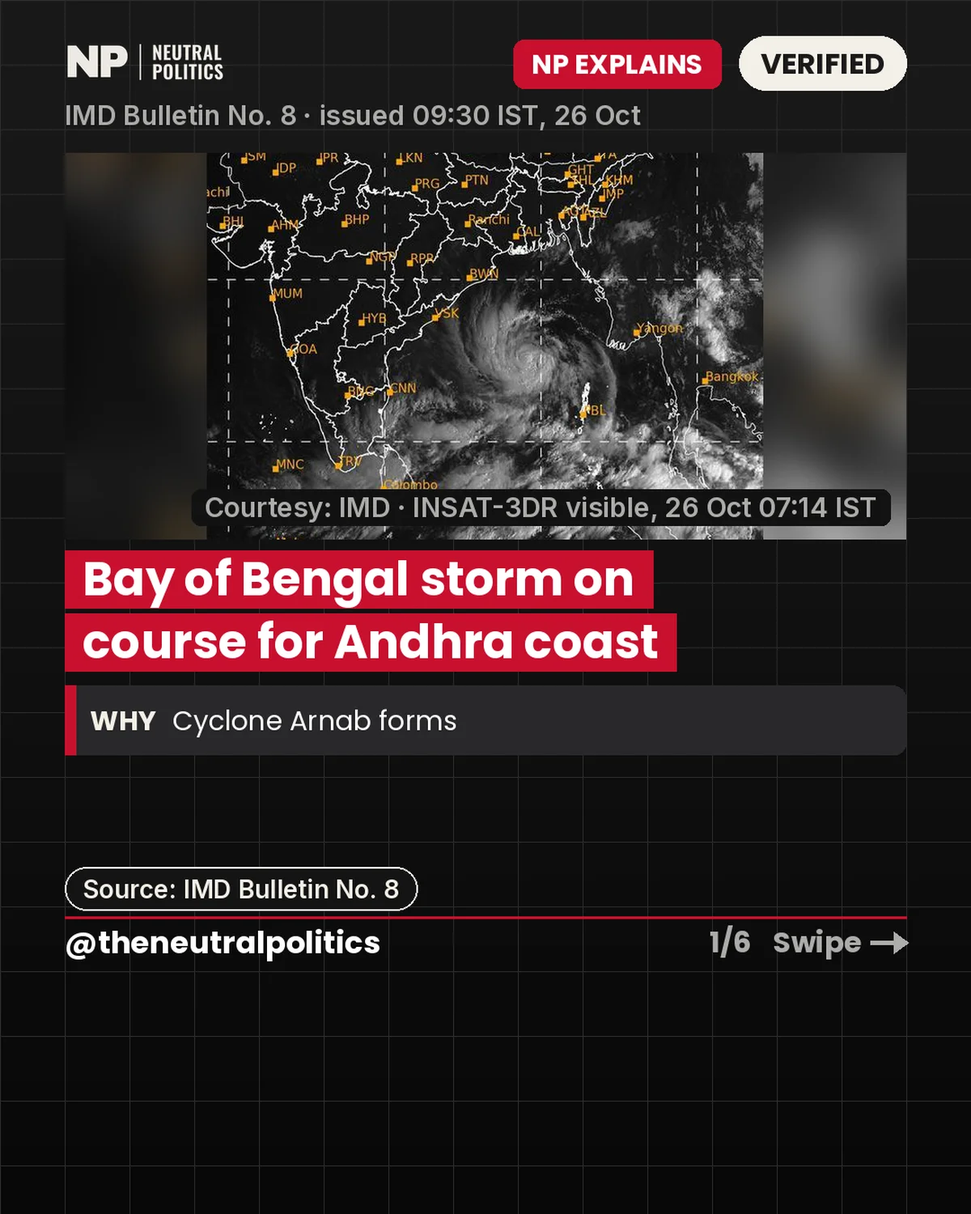
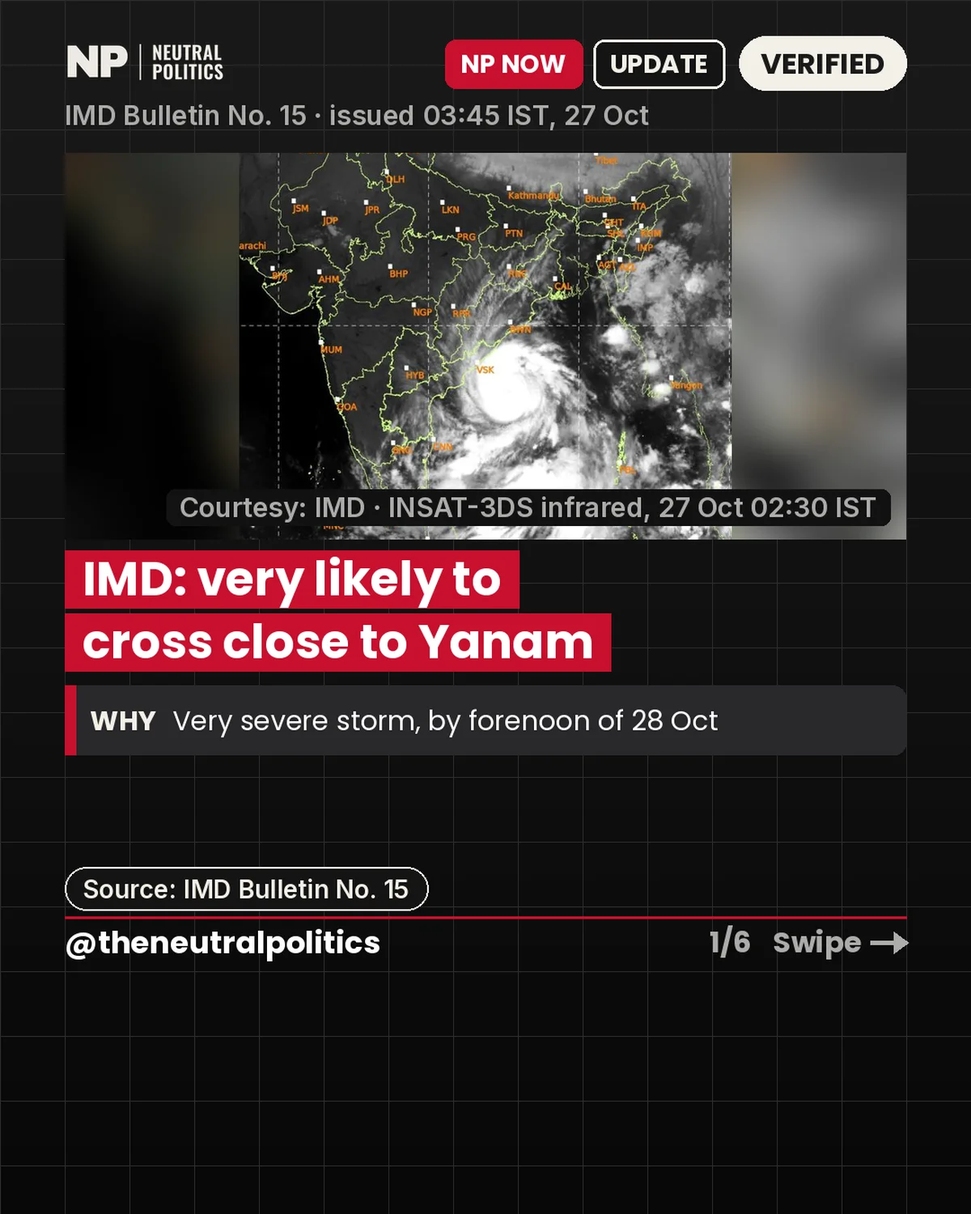
Update the Bay note: Cyclone Arnab is now very severe.
Bulletin No. 15 stays on the same URL, with the new poster and carousel. The crossing near Yanam remains a forecast.

Changed region(s): [[0.0925, 0.0307, 0.9558, 0.552], [0.185, 0.5827, 0.74, 0.6133], [0.4008, 0.7053, 0.4317, 0.7667]]

diff --git a/content/news/2026/10/imd-depression-bay-of-bengal-very-severe-cyclone-andhra-oct-28.hi.md b/content/news/2026/10/imd-depression-bay-of-bengal-very-severe-cyclone-andhra-oct-28.hi.md
@@ -1,11 +1,17 @@
 ---
-title: "चक्रवात अर्नब बना; आंध्र का पूर्वानुमान"
-standfirst: "बुलेटिन नंबर 8 के अनुसार गहरा अवदाब 26 अक्टूबर को 05:30 IST पर चक्रवात अर्नब बना, और 28 अक्टूबर के पूर्वाह्न तक आंध्र तट पार करने का पूर्वानुमान है।"
+title: "अर्नब अब बहुत गंभीर; यनम, 28 अक्टूबर"
+standfirst: "बुलेटिन नंबर 15 के अनुसार चक्रवात अर्नब अब बहुत गंभीर चक्रवाती तूफान है, और 28 अक्टूबर के पूर्वाह्न तक यनम के पास तट पार करने की बहुत संभावना है।"
 key_facts:
-  - "अपडेट, 26 अक्टूबर 2026, दोपहर 12:32 बजे IST। मौसम विभाग का राष्ट्रीय बुलेटिन नंबर 8 (BOB/08/2026), 26 अक्टूबर को 09:30 IST जारी, और उसी सुबह 08:47 IST का अखिल भारतीय बुलेटिन। अगला बुलेटिन आंकड़े बदल सकता है। IMD, APSDMA और OSDMA के अलर्ट मानें।"
+  - "अपडेट, 27 अक्टूबर 2026, सुबह 8:50 बजे IST। NP NOW। मुहर: सत्यापित, अपडेट। मौसम विभाग का राष्ट्रीय बुलेटिन नंबर 15 (BOB/08/2026), 27 अक्टूबर को 03:45 IST जारी, स्थिति 02:30 IST की। IMD के बुलेटिन आंकड़े अक्सर बदलते हैं। IMD, APSDMA और OSDMA के अलर्ट मानें।"
+  - "चक्रवात अर्नब अब बहुत गंभीर चक्रवाती तूफान है। 27 अक्टूबर को 02:30 IST पर यह पश्चिम-मध्य बंगाल की खाड़ी में 15.9° उत्तर, 85.4° पूर्व के पास था: विशाखापट्टनम से करीब 300 किमी दक्षिण-पूर्व और काकीनाडा से 360 किमी पूर्व-दक्षिण-पूर्व। पिछले छह घंटे में यह 25 किमी प्रति घंटा की रफ्तार से पश्चिम-उत्तर-पश्चिम बढ़ा। IMD की RSMC उष्णकटिबंधीय चक्रवात सलाह संख्या 7 कहती है कि 26 अक्टूबर को 1800 UTC, यानी 23:30 IST, तक यह बहुत गंभीर चक्रवाती तूफान बन चुका था।"
+  - "मौसम विभाग का पूर्वानुमान: आंध्र प्रदेश और यनम के तटों को बापटला और विशाखापट्टनम के बीच, यनम के पास, बहुत गंभीर चक्रवाती तूफान के रूप में 28 अक्टूबर के पूर्वाह्न तक पार करने की बहुत संभावना। उस समय हवा 115-125 किमी प्रति घंटा, झोंके 140 तक। 27 अक्टूबर की शाम तक पश्चिम-उत्तर-पश्चिम, फिर उत्तर-पश्चिम बढ़ने की संभावना। यह पार करना पूर्वानुमान है। यह नोट नहीं कहता कि तट पार हो चुका है।"
+  - "02:30 IST पर समुद्र में हवा 125-135 किमी प्रति घंटा थी, झोंके 150 तक। IMD कहता है कि 27 अक्टूबर की दोपहर तक यह 135-145 किमी प्रति घंटा, झोंके 160 तक, बढ़ सकती है। IMD के शब्दों में लैंडफॉल के समय काकीनाडा और यनम के पास 1.0-1.5 मीटर की तूफानी लहर संभव है। वह पंक्ति पूर्वानुमान है। मछुआरों को 27, 28 और 29 अक्टूबर को समुद्र में न जाने की सलाह है।"
+  - "आंध्र के मुख्यमंत्री एन. चंद्रबाबू नायडू ने तटीय और निचले इलाकों से लोगों को निकालने का आदेश दिया है, द हिंदू की रिपोर्ट। 27 अक्टूबर के लिए द हिंदू सात जिलों में रेड अलर्ट की रिपोर्ट करता है। कैप्शन और टाइम्स ऑफ इंडिया काकीनाडा, कोनासीमा, पूर्वी गोदावरी, पश्चिमी गोदावरी, एलुरु और यनम का नाम उन जगहों में लेते हैं। कैप्शन में आंध्र प्रदेश के सहायता नंबर 112 और 1070 हैं। इस नोट में निकाले गए लोगों की कोई गिनती नहीं है, और न नुकसान की खबर है, न मौत की।"
+  - "ट्रैक के साथ छपी IMD की श्रेणियाँ, नॉट को किमी प्रति घंटा में बदलकर: चक्रवाती तूफान 62-88, गंभीर चक्रवाती तूफान 89-117, और बहुत गंभीर चक्रवाती तूफान 118-166 किमी प्रति घंटा। रेड अलर्ट का अर्थ है \"take action\", यानी कार्रवाई करें।"
+  - "पहले का अपडेट, 26 अक्टूबर 2026, दोपहर 12:32 बजे IST। मौसम विभाग का राष्ट्रीय बुलेटिन नंबर 8 (BOB/08/2026), 26 अक्टूबर को 09:30 IST जारी, और उसी सुबह 08:47 IST का अखिल भारतीय बुलेटिन। वे पंक्तियाँ नीचे रखी हैं। वे नवीनतम पंक्ति नहीं हैं।"
   - "गहरा अवदाब 26 अक्टूबर को 05:30 IST पर चक्रवाती तूफान अर्नब बना। कैप्शन उच्चारण 'Ornab' बताता है। 05:30 IST पर यह 15.4° उत्तर, 88.9° पूर्व के पास था: विशाखापट्टनम से करीब 650 किमी पूर्व-दक्षिण-पूर्व, काकीनाडा से 730 किमी पूर्व-दक्षिण-पूर्व, और बापटला से 910 किमी पूर्व।"
-  - "मौसम विभाग का पूर्वानुमान: 26 अक्टूबर की आधी रात तक गंभीर चक्रवाती तूफान, 27 अक्टूबर को बहुत गंभीर चक्रवाती तूफान, और आंध्र प्रदेश तथा यनम के तटों को बापटला और विशाखापट्टनम के बीच 28 अक्टूबर के पूर्वाह्न तक पार करने की बहुत संभावना। हवा 115-125 किमी प्रति घंटा, झोंके 140 तक। यह पार करना पूर्वानुमान है। बदल सकता है। इस नोट में इससे बारीक लैंडफॉल समय नहीं है।"
-  - "आंध्र प्रदेश और दक्षिण ओडिशा के तटों के लिए चक्रवात चेतावनी, रेड संदेश। मछुआरों को समुद्र में न जाने की सलाह। आंध्र के मुख्यमंत्री एन. चंद्रबाबू नायडू ने चौबीसों घंटे चौकसी का आदेश दिया, द हिंदू की रिपोर्ट। ओडिशा के मुख्यमंत्री मोहन चरण माझी ने आठ मंत्रियों को संवेदनशील जिलों में भेजा, द हिंदू और पीटीआई की रिपोर्ट।"
+  - "पहले, बुलेटिन नंबर 8 का पूर्वानुमान था: 26 अक्टूबर की आधी रात तक गंभीर चक्रवाती तूफान, 27 अक्टूबर को बहुत गंभीर चक्रवाती तूफान, और आंध्र प्रदेश तथा यनम के तटों को बापटला और विशाखापट्टनम के बीच 28 अक्टूबर के पूर्वाह्न तक पार करना। हवा 115-125 किमी प्रति घंटा, झोंके 140 तक। वह उस बुलेटिन का पूर्वानुमान था।"
+  - "पहले, 26 अक्टूबर को: आंध्र प्रदेश और दक्षिण ओडिशा के तटों के लिए चक्रवात चेतावनी, रेड संदेश। मछुआरों को समुद्र में न जाने की सलाह दी गई थी। आंध्र के मुख्यमंत्री एन. चंद्रबाबू नायडू ने चौबीसों घंटे चौकसी का आदेश दिया था, द हिंदू की रिपोर्ट। ओडिशा के मुख्यमंत्री मोहन चरण माझी ने आठ मंत्रियों को संवेदनशील जिलों में भेजा था, द हिंदू और पीटीआई की रिपोर्ट।"
   - "पृष्ठभूमि, 25 अक्टूबर। NP EXPLAINS। मुहर: सत्यापित। पहला कैरोसेल 25 अक्टूबर 2026 को सुबह 8:58 बजे IST पोस्ट हुआ। तब कवर NP का ग्राफ़िक था। आँकड़े भारतीय मौसम विभाग के थे।"
   - "भारतीय मौसम विभाग का राष्ट्रीय बुलेटिन नंबर 2 (BOB/08/2026), 25 अक्टूबर को 02:00 IST जारी, 24 अक्टूबर को 23:30 IST के अवलोकन से। पूर्वानुमान बदल सकते हैं।"
   - "बंगाल की खाड़ी का निम्न दबाव क्षेत्र 24 अक्टूबर को 17:30 IST पर अवदाब बना, पूर्व-मध्य और उससे लगी दक्षिण-पूर्व खाड़ी के ऊपर। उस 25 अक्टूबर के बुलेटिन तक यह अवदाब था, चक्रवात नहीं बना था, और बुलेटिन में तूफान का नाम नहीं था।"
@@ -15,33 +21,54 @@ key_facts:
   - "मौसम विभाग की सलाह: मछुआरे 26-28 अक्टूबर को पश्चिम-मध्य खाड़ी में न जाएँ, और 27-28 अक्टूबर को आंध्र प्रदेश-ओडिशा के तटों पर और तट से दूर न जाएँ। कैप्शन IMD, APSDMA और OSDMA के आधिकारिक अलर्ट मानने को कहता है।"
   - "यह 24 अक्टूबर के सुबह 8:38 वाले पैकेज का अपडेट है, जिसमें केवल उत्तर आंध्र और दक्षिण ओडिशा के पास चक्रवाती तूफान का पूर्वानुमान था। 25 अक्टूबर को करीब सुबह 9:00 बजे IST की जाँच में नया बुलेटिन नहीं मिला। नवीनतम TWO सूची 25 अक्टूबर, 02:20 IST की थी।"
 sides:
-  - label: "बुलेटिन नंबर 8 क्या कहता है"
-    text: "26 अक्टूबर को 05:30 IST पर गहरा अवदाब चक्रवात अर्नब बना, 15.4° उत्तर, 88.9° पूर्व के पास। पूर्वानुमान है: आधी रात तक गंभीर चक्रवाती तूफान, 27 अक्टूबर को बहुत गंभीर चक्रवाती तूफान, और 28 अक्टूबर के पूर्वाह्न तक बापटला और विशाखापट्टनम के बीच तट पार करना।"
+  - label: "बुलेटिन नंबर 15 क्या कहता है"
+    text: "27 अक्टूबर को 02:30 IST पर चक्रवात अर्नब बहुत गंभीर चक्रवाती तूफान था, 15.9° उत्तर, 85.4° पूर्व के पास। IMD कहता है कि 28 अक्टूबर के पूर्वाह्न तक बापटला और विशाखापट्टनम के बीच, यनम के पास, तट पार करने की बहुत संभावना है।"
   - label: "जो अभी पूर्वानुमान है"
-    text: "गंभीर और बहुत गंभीर चरण, तट पार करना, और 115-125 किमी प्रति घंटा की हवा जिसमें झोंके 140 तक हों, मौसम विभाग का पूर्वानुमान है। अगला बुलेटिन आंकड़े बदल सकता है। लैंडफॉल की पंक्ति 28 अक्टूबर के पूर्वाह्न से बारीक नहीं है।"
-  - label: "25 अक्टूबर को बुलेटिन नंबर 2 क्या कहता था"
-    text: "25 अक्टूबर को यह अवदाब था, और उस बुलेटिन ने नाम नहीं दिया था। वे अनुच्छेद नीचे पृष्ठभूमि के रूप में रखे हैं। वे नवीनतम पंक्ति नहीं हैं।"
+    text: "तट पार करना, उस समय 115-125 किमी प्रति घंटा की हवा जिसमें झोंके 140 तक हों, 27 अक्टूबर की दोपहर तक समुद्री हवा का 135-145 किमी प्रति घंटा तक बढ़ना, और 1.0-1.5 मीटर की तूफानी लहर, IMD का पूर्वानुमान है। अगला बुलेटिन आंकड़े बदल सकता है। यह नोट नहीं कहता कि तट पार हो चुका है।"
+  - label: "पहले के बुलेटिन क्या कहते थे"
+    text: "26 अक्टूबर के बुलेटिन नंबर 8 ने कहा था कि गहरा अवदाब चक्रवात अर्नब बन चुका है। 25 अक्टूबर के बुलेटिन नंबर 2 ने इसे अवदाब बताया था और नाम नहीं दिया था। वे अनुच्छेद नीचे हैं। वे नवीनतम पंक्ति नहीं हैं।"
 not_confirmed:
   - "कोई नुकसान, या कोई मौत। यह अपडेट इनमें से कोई खबर नहीं करता।"
-  - "कोई एक शहर, या 28 अक्टूबर के पूर्वाह्न से बारीक कोई घड़ी का समय। मौसम विभाग की पंक्ति बापटला और विशाखापट्टनम के बीच है, और पूर्वानुमान बदल सकता है।"
-  - "यह कि गंभीर चरण, या बहुत गंभीर चरण, हो चुका है। बुलेटिन नंबर 8 में वे पूर्वानुमान हैं।"
-  - "बुलेटिन नंबर 8 के बाद का कोई आंकड़ा। 26 अक्टूबर को करीब सुबह 10:52 बजे IST की जाँच में नंबर 8 नवीनतम सूचीबद्ध था।"
+  - "यह कि तट पार हो चुका है। IMD की पंक्ति पूर्वानुमान है: बापटला और विशाखापट्टनम के बीच, यनम के पास, 28 अक्टूबर के पूर्वाह्न तक पार करने की बहुत संभावना। पूर्वानुमान बदल सकता है।"
+  - "तटीय और निचले इलाकों से निकाले गए लोगों की कोई गिनती। द हिंदू मुख्यमंत्री के आदेश की रिपोर्ट करता है। यह नोट कोई संख्या नहीं जोड़ता।"
+  - "यह कि समुद्री हवा 135-145 किमी प्रति घंटा, झोंके 160 तक, पहुँच चुकी है। 27 अक्टूबर की दोपहर तक की यह बढ़त IMD का पूर्वानुमान है। 02:30 IST का अवलोकन 125-135 किमी प्रति घंटा है, झोंके 150 तक।"
+  - "बुलेटिन नंबर 15 के बाद का कोई आंकड़ा। 27 अक्टूबर को करीब सुबह 8:45 बजे IST की जाँच में नंबर 15 नवीनतम सूचीबद्ध था। बुलेटिन कहता था कि अगला संदेश 08:30 IST का होगा, और उस जाँच में नंबर 16 साइट पर नहीं मिला।"
 translation:
   engine: "cloud-agent"
   status: "machine"
 ---
 
+## अपडेट, 27 अक्टूबर
+
+यह पेज 27 अक्टूबर 2026 को सुबह 8:50 बजे IST अपडेट हुआ, जब नया कैरोसेल पोस्ट हुआ। इस कैरोसेल की श्रृंखला NP NOW है। मुहर VERIFIED है, और यह अपडेट लिखा है। मौसम विभाग के राष्ट्रीय बुलेटिन नंबर 15, संख्या BOB/08/2026, जो 27 अक्टूबर को 03:45 IST जारी हुआ, और जिसमें 02:30 IST की स्थिति है, के अनुसार चक्रवात अर्नब अब बहुत गंभीर चक्रवाती तूफान है। IMD के बुलेटिन आंकड़े अक्सर बदलते हैं। अगला बुलेटिन उन्हें बदल सकता है। IMD, आंध्र प्रदेश राज्य आपदा प्रबंधन प्राधिकरण (APSDMA) और ओडिशा राज्य आपदा प्रबंधन प्राधिकरण (OSDMA) के अलर्ट मानें।
+
+27 अक्टूबर को 02:30 IST पर तूफान पश्चिम-मध्य बंगाल की खाड़ी में था, 15.9° उत्तर, 85.4° पूर्व के पास। यह विशाखापट्टनम से करीब 300 किमी दक्षिण-पूर्व और काकीनाडा से करीब 360 किमी पूर्व-दक्षिण-पूर्व है। पिछले छह घंटे में यह 25 किमी प्रति घंटा की रफ्तार से पश्चिम-उत्तर-पश्चिम बढ़ा। IMD की RSMC उष्णकटिबंधीय चक्रवात सलाह संख्या 7 कहती है कि यह प्रणाली 26 अक्टूबर को 1800 UTC, यानी 23:30 IST, तक बहुत गंभीर चक्रवाती तूफान बन चुकी थी। 27 अक्टूबर को करीब सुबह 8:45 बजे IST की जाँच में बुलेटिन नंबर 15 नवीनतम सूचीबद्ध मिला। बुलेटिन खुद कहता था कि अगला संदेश 08:30 IST का होगा। उस जाँच में बुलेटिन नंबर 16 साइट पर नहीं मिला।
+
+बुलेटिन नंबर 15 से मौसम विभाग का पूर्वानुमान है कि तूफान 27 अक्टूबर की शाम तक पश्चिम-उत्तर-पश्चिम बढ़े, और फिर उत्तर-पश्चिम। आंध्र प्रदेश और यनम के तटों को बापटला और विशाखापट्टनम के बीच, यनम के पास, बहुत गंभीर चक्रवाती तूफान के रूप में 28 अक्टूबर के पूर्वाह्न तक पार करने की बहुत संभावना है। उस पार करने पर हवा 115-125 किमी प्रति घंटा है, झोंके 140 किमी प्रति घंटा तक। यह पार करना पूर्वानुमान है। यह नोट नहीं कहता कि तट पार हो चुका है, और उस पूर्वाह्न के अंदर कोई घड़ी का समय नहीं लगाता।
+
+02:30 IST पर समुद्र में बुलेटिन हवा 125-135 किमी प्रति घंटा बताता है, झोंके 150 किमी प्रति घंटा तक। IMD कहता है कि 27 अक्टूबर की दोपहर तक ये हवाएँ 135-145 किमी प्रति घंटा, झोंके 160 किमी प्रति घंटा तक, बढ़ सकती हैं। यह बढ़त पूर्वानुमान है। IMD यह भी कहता है कि लैंडफॉल के समय काकीनाडा और यनम के पास 1.0 से 1.5 मीटर की तूफानी लहर संभव है। तूफानी लहर वाली यह पंक्ति लैंडफॉल के समय के लिए IMD के शब्द हैं, और यह पूर्वानुमान है। मछुआरों को 27, 28 और 29 अक्टूबर को समुद्र में न जाने की सलाह है।
+
+आंध्र के मुख्यमंत्री एन. चंद्रबाबू नायडू ने आदेश दिया है कि तटीय और निचले इलाकों से लोगों को निकाला जाए। उस आदेश के लिए नामित रिपोर्ट द हिंदू है। 27 अक्टूबर के लिए द हिंदू सात जिलों में रेड अलर्ट की रिपोर्ट करता है। कैप्शन, और टाइम्स ऑफ इंडिया, उस अलर्ट वाली जगहों में काकीनाडा, कोनासीमा, पूर्वी गोदावरी, पश्चिमी गोदावरी, एलुरु और यनम का नाम लेते हैं। कैप्शन आंध्र प्रदेश के सहायता नंबर 112 और 1070 देता है। सहायता नंबरों के लिए भी द हिंदू नामित है। यह अपडेट निकाले गए लोगों की गिनती नहीं देता। यह नुकसान या मौत की खबर नहीं करता।
+
+ट्रैक के साथ छपी IMD की श्रेणियाँ, जिनमें नॉट को किमी प्रति घंटा में बदला गया है, ये हैं। चक्रवाती तूफान 62-88 किमी प्रति घंटा। गंभीर चक्रवाती तूफान 89-117 किमी प्रति घंटा। बहुत गंभीर चक्रवाती तूफान 118-166 किमी प्रति घंटा। कैप्शन कहता है कि रेड अलर्ट का अर्थ है \"take action\", यानी कार्रवाई करें।
+
+नया कवर NP का ग्राफ़िक है, जिसमें मौसम विभाग की तस्वीरें हैं: 27 अक्टूबर को 02:30 से 02:57 IST की INSAT-3DS तापीय अवरक्त छवि, और अनिश्चितता के शंकु के साथ देखा गया तथा पूर्वानुमानित पथ, जिसका आधार 26 अक्टूबर का 1800 UTC है, यानी 23:30 IST। साभार: IMD।
+
+इकट्ठा पढ़ें तो जो पंक्तियाँ बुलेटिन नंबर 15 के अंदर रहती हैं, वे ये हैं। अर्नब अब बहुत गंभीर चक्रवाती तूफान है। 27 अक्टूबर को 02:30 IST पर यह 15.9° उत्तर, 85.4° पूर्व के पास था, विशाखापट्टनम से करीब 300 किमी दक्षिण-पूर्व और काकीनाडा से 360 किमी पूर्व-दक्षिण-पूर्व, और इससे पहले छह घंटे में 25 किमी प्रति घंटा की रफ्तार से पश्चिम-उत्तर-पश्चिम बढ़ा था। पूर्वानुमान का पार करना आंध्र प्रदेश और यनम के तट हैं, बापटला और विशाखापट्टनम के बीच, यनम के पास, बहुत गंभीर चक्रवाती तूफान के रूप में, 28 अक्टूबर के पूर्वाह्न तक, हवा 115-125 किमी प्रति घंटा और झोंके 140 तक। 02:30 IST पर समुद्री हवा 125-135 किमी प्रति घंटा थी, झोंके 150 तक, और IMD कहता है कि दोपहर तक यह 135-145 किमी प्रति घंटा, झोंके 160 तक, बढ़ सकती है। IMD के शब्दों में लैंडफॉल के समय काकीनाडा और यनम के पास 1.0-1.5 मीटर की तूफानी लहर संभव है। मछुआरों को 27-29 अक्टूबर को समुद्र से दूर रहने की सलाह है। मुख्यमंत्री का निकासी आदेश और रेड अलर्ट वाली जगहें रिपोर्ट हैं, जिनके नाम ऊपर हैं। यह नोट तट पार होने की खबर नहीं करता, और नुकसान या मौत की खबर नहीं करता।
+
 ## अपडेट, 26 अक्टूबर
 
-यह पेज 26 अक्टूबर 2026 को दोपहर 12:32 बजे IST अपडेट हुआ, जब नया कैरोसेल पोस्ट हुआ। मौसम विभाग के राष्ट्रीय बुलेटिन नंबर 8, संख्या BOB/08/2026, जो 26 अक्टूबर को 09:30 IST जारी हुआ, और उसी सुबह 08:47 IST के अखिल भारतीय बुलेटिन के अनुसार: गहरा अवदाब 26 अक्टूबर को 05:30 IST पर चक्रवाती तूफान अर्नब बन गया। कैप्शन उच्चारण 'Ornab' बताता है। पूर्वानुमान बदल सकते हैं। IMD, आंध्र प्रदेश राज्य आपदा प्रबंधन प्राधिकरण (APSDMA) और ओडिशा राज्य आपदा प्रबंधन प्राधिकरण (OSDMA) के अलर्ट मानें।
+इस शीर्षक के नीचे के अनुच्छेद 26 अक्टूबर का अपडेट हैं, बुलेटिन नंबर 8 से। ऊपर का बुलेटिन नंबर 15 बाद की पंक्ति है।
+
+यह पेज 26 अक्टूबर 2026 को दोपहर 12:32 बजे IST अपडेट हुआ, जब वह कैरोसेल पोस्ट हुआ। मौसम विभाग के राष्ट्रीय बुलेटिन नंबर 8, संख्या BOB/08/2026, जो 26 अक्टूबर को 09:30 IST जारी हुआ, और उसी सुबह 08:47 IST के अखिल भारतीय बुलेटिन के अनुसार: गहरा अवदाब 26 अक्टूबर को 05:30 IST पर चक्रवाती तूफान अर्नब बन गया। कैप्शन उच्चारण 'Ornab' बताता है। पूर्वानुमान बदल सकते हैं। IMD, आंध्र प्रदेश राज्य आपदा प्रबंधन प्राधिकरण (APSDMA) और ओडिशा राज्य आपदा प्रबंधन प्राधिकरण (OSDMA) के अलर्ट मानें।
 
 05:30 IST पर तूफान 15.4° उत्तर, 88.9° पूर्व के पास था। यह विशाखापट्टनम से करीब 650 किमी पूर्व-दक्षिण-पूर्व, काकीनाडा से करीब 730 किमी पूर्व-दक्षिण-पूर्व, और बापटला से करीब 910 किमी पूर्व है। उस बुलेटिन से मौसम विभाग का पूर्वानुमान है: 26 अक्टूबर की आधी रात तक गंभीर चक्रवाती तूफान, 27 अक्टूबर को बहुत गंभीर चक्रवाती तूफान, और आंध्र प्रदेश तथा यनम के तटों को बापटला और विशाखापट्टनम के बीच 28 अक्टूबर के पूर्वाह्न तक पार करने की बहुत संभावना। हवा 115-125 किमी प्रति घंटा है, झोंके 140 किमी प्रति घंटा तक। यह पार करना पूर्वानुमान है। यह नोट उस पट्टी में एक शहर नहीं चुनता, और उस पूर्वाह्न के अंदर कोई घड़ी का समय नहीं लगाता। कैप्शन कहता है कि अगला बुलेटिन आंकड़े बदल सकता है। करीब सुबह 10:52 बजे IST की जाँच में mausam.imd.gov.in पर बुलेटिन नंबर 8 नवीनतम सूचीबद्ध मिला।
 
-चेतावनी चक्रवात चेतावनी है, रेड संदेश, आंध्र प्रदेश और दक्षिण ओडिशा के तटों के लिए। मछुआरों को समुद्र में न जाने की सलाह दी गई है। आंध्र के मुख्यमंत्री एन. चंद्रबाबू नायडू ने चौबीसों घंटे चौकसी का आदेश दिया। उस आदेश के लिए नामित रिपोर्ट द हिंदू है। ओडिशा के मुख्यमंत्री मोहन चरण माझी ने आठ मंत्रियों को संवेदनशील जिलों में भेजा। उस कदम के लिए नामित रिपोर्टें द हिंदू और पीटीआई हैं। यह अपडेट नुकसान या मौत की खबर नहीं करता। नया कवर NP का ग्राफ़िक है, जिसमें मौसम विभाग की तस्वीरें हैं: 26 अक्टूबर को 07:14 IST की INSAT-3DR दृश्य छवि, और अनिश्चितता के शंकु के साथ देखा गया तथा पूर्वानुमानित पथ, जिसका आधार 26 अक्टूबर का 0000 UTC है, यानी 05:30 IST। साभार: IMD।
+चेतावनी चक्रवात चेतावनी है, रेड संदेश, आंध्र प्रदेश और दक्षिण ओडिशा के तटों के लिए। मछुआरों को समुद्र में न जाने की सलाह दी गई है। आंध्र के मुख्यमंत्री एन. चंद्रबाबू नायडू ने चौबीसों घंटे चौकसी का आदेश दिया। उस आदेश के लिए नामित रिपोर्ट द हिंदू है। ओडिशा के मुख्यमंत्री मोहन चरण माझी ने आठ मंत्रियों को संवेदनशील जिलों में भेजा। उस कदम के लिए नामित रिपोर्टें द हिंदू और पीटीआई हैं। यह अपडेट नुकसान या मौत की खबर नहीं करता। उस अपडेट का कवर NP का ग्राफ़िक था, जिसमें मौसम विभाग की तस्वीरें थीं: 26 अक्टूबर को 07:14 IST की INSAT-3DR दृश्य छवि, और अनिश्चितता के शंकु के साथ देखा गया तथा पूर्वानुमानित पथ, जिसका आधार 26 अक्टूबर का 0000 UTC है, यानी 05:30 IST। साभार: IMD।
 
 ## पृष्ठभूमि: बुलेटिन नंबर 2, 25 अक्टूबर
 
-इस शीर्षक के नीचे के अनुच्छेद 25 अक्टूबर का नोट हैं, बुलेटिन नंबर 2 से। ऊपर का बुलेटिन नंबर 8 बाद की पंक्ति है।
+इस शीर्षक के नीचे के अनुच्छेद 25 अक्टूबर का नोट हैं, बुलेटिन नंबर 2 से। इस पेज के ऊपर बुलेटिन नंबर 15 नवीनतम पंक्ति है। बुलेटिन नंबर 8, 26 अक्टूबर का अपडेट है।
 
 यह नोट सत्यापित है। श्रृंखला NP EXPLAINS है। कैरोसेल 25 अक्टूबर 2026 को सुबह 8:58 बजे IST पोस्ट हुआ। मुहर VERIFIED है। कवर NP का ग्राफ़िक है, और आँकड़े भारतीय मौसम विभाग के हैं। मौसम विभाग की कोई तस्वीर इस्तेमाल नहीं हुई। नीचे हर आंकड़े के साथ यह पंक्ति रहती है: IMD के बुलेटिन नंबर 2, 25 अक्टूबर को 02:00 IST तक; पूर्वानुमान बदल सकते हैं।
 

diff --git a/content/news/2026/10/imd-depression-bay-of-bengal-very-severe-cyclone-andhra-oct-28.en.md b/content/news/2026/10/imd-depression-bay-of-bengal-very-severe-cyclone-andhra-oct-28.en.md
@@ -1,11 +1,17 @@
 ---
-title: "Cyclone Arnab forms; Andhra by 28 Oct"
-standfirst: "IMD Bulletin No. 8 says the deep depression became Cyclone Arnab at 05:30 IST on 26 October, with a very severe Andhra-coast crossing forecast by 28 October."
+title: "Arnab now very severe; Yanam by 28 Oct"
+standfirst: "As of IMD Bulletin No. 15, Cyclone Arnab is now a very severe cyclonic storm, very likely to cross the coast close to Yanam by the forenoon of 28 October."
 key_facts:
-  - "Update, 26 October 2026, 12:32 pm IST. As of IMD National Bulletin No. 8 (BOB/08/2026), issued at 09:30 IST on 26 October, and the IMD all-India bulletin at 08:47 IST. The next bulletin can change the numbers. Follow IMD, APSDMA and OSDMA."
+  - "Update, 27 October 2026, 8:50 am IST. NP NOW. Stamp: verified, update. As of IMD National Bulletin No. 15 (BOB/08/2026), issued at 03:45 IST on 27 October, position at 02:30 IST. IMD bulletins change the numbers often. Follow IMD, APSDMA and OSDMA."
+  - "Cyclone Arnab is now a very severe cyclonic storm. At 02:30 IST on 27 October it was in the west-central Bay of Bengal near 15.9°N, 85.4°E: about 300 km southeast of Visakhapatnam and 360 km east-southeast of Kakinada. In the previous six hours it moved west-northwest at 25 kmph. IMD's RSMC Tropical Cyclone Advisory No. 7 says it had intensified into a very severe cyclonic storm by 1800 UTC on 26 October, which is 23:30 IST."
+  - "IMD forecast: very likely to cross the Andhra Pradesh and Yanam coasts between Bapatla and Visakhapatnam, close to Yanam, as a very severe cyclonic storm, by the forenoon of 28 October. Winds at that crossing 115-125 kmph, gusting to 140. Likely to move west-northwest until the evening of 27 October, then northwest. The crossing is a forecast. This note does not report that the coast has been crossed."
+  - "At sea at 02:30 IST, winds were 125-135 kmph, gusting to 150. IMD says they may rise to 135-145 kmph, gusting to 160, by the afternoon of 27 October. A storm surge of 1.0-1.5 m is possible near Kakinada and Yanam at landfall, in IMD's words. That surge line is a forecast. Fishermen are advised not to go to sea on 27, 28 and 29 October."
+  - "Andhra Chief Minister N. Chandrababu Naidu has ordered people moved out of coastal and low-lying areas, The Hindu reports. For 27 October, The Hindu reports a red alert for seven districts. The caption and The Times of India name Kakinada, Konaseema, East Godavari, West Godavari, Eluru and Yanam among the places. Andhra Pradesh helplines in the caption: 112 and 1070. This note gives no count of people moved, and it reports no damage and no deaths."
+  - "IMD's categories, as printed in the track legend with knots converted: a cyclonic storm is 62-88 kmph, a severe cyclonic storm is 89-117 kmph, and a very severe cyclonic storm is 118-166 kmph. A red alert means \"take action\"."
+  - "Earlier update, 26 October 2026, 12:32 pm IST. As of IMD National Bulletin No. 8 (BOB/08/2026), issued at 09:30 IST on 26 October, and the IMD all-India bulletin at 08:47 IST. Those lines are kept below. They are not the latest line."
   - "The deep depression became the cyclonic storm Arnab at 05:30 IST on 26 October. The caption gives the pronunciation as Ornab. At 05:30 IST it was near 15.4°N, 88.9°E: about 650 km east-southeast of Visakhapatnam, 730 km east-southeast of Kakinada, and 910 km east of Bapatla."
-  - "IMD forecast: a severe cyclonic storm by midnight on 26 October, a very severe cyclonic storm on 27 October, and, very likely, a crossing of the Andhra Pradesh and Yanam coasts between Bapatla and Visakhapatnam by the forenoon of 28 October. Winds 115-125 kmph, gusting to 140. That crossing is a forecast. It may change. This note does not set a finer landfall time."
-  - "Cyclone warning, a red message, for the Andhra Pradesh and south Odisha coasts. Fishermen are advised not to venture to sea. Andhra Chief Minister N. Chandrababu Naidu ordered round-the-clock vigilance, The Hindu reports. Odisha Chief Minister Mohan Charan Majhi sent eight ministers to vulnerable districts, The Hindu and PTI report."
+  - "Earlier, Bulletin No. 8 forecast a severe cyclonic storm by midnight on 26 October, a very severe cyclonic storm on 27 October, and a crossing of the Andhra Pradesh and Yanam coasts between Bapatla and Visakhapatnam by the forenoon of 28 October. Winds 115-125 kmph, gusting to 140. That was that bulletin's forecast."
+  - "Earlier, on 26 October: a cyclone warning, a red message, for the Andhra Pradesh and south Odisha coasts. Fishermen were advised not to venture to sea. Andhra Chief Minister N. Chandrababu Naidu ordered round-the-clock vigilance, The Hindu reported. Odisha Chief Minister Mohan Charan Majhi sent eight ministers to vulnerable districts, The Hindu and PTI reported."
   - "Background, 25 October. NP EXPLAINS. Stamp: verified. The first carousel was posted at 8:58 am IST on 25 October 2026. The cover then was an NP graphic. The data were credited to IMD."
   - "As of IMD National Bulletin No. 2 (BOB/08/2026), issued at 02:00 IST on 25 October, from observations at 23:30 IST on 24 October. Forecasts may change."
   - "The low over the Bay of Bengal became a depression at 17:30 IST on 24 October, over the east-central and adjoining southeast Bay of Bengal. As of that 25 October bulletin, it was a depression, a cyclone had not formed, and the bulletin did not give a storm name."
@@ -15,30 +21,51 @@ key_facts:
   - "IMD advises fishermen not to venture into the west-central Bay on 26-28 October, or along and off the Andhra Pradesh and Odisha coasts on 27-28 October. The caption says to follow official alerts from IMD, APSDMA and OSDMA."
   - "This is an update of the 24 October 08:38 package, which forecast only a cyclonic storm near north Andhra and south Odisha. A check at about 9:00 am IST on 25 October found no newer bulletin. The latest TWO listing was 25 October at 02:20 IST."
 sides:
-  - label: "What Bulletin No. 8 says"
-    text: "At 05:30 IST on 26 October the deep depression became Cyclone Arnab, near 15.4°N, 88.9°E. IMD forecasts a severe cyclonic storm by midnight, a very severe cyclonic storm on 27 October, and a crossing between Bapatla and Visakhapatnam by the forenoon of 28 October."
+  - label: "What Bulletin No. 15 says"
+    text: "At 02:30 IST on 27 October, Cyclone Arnab was a very severe cyclonic storm near 15.9°N, 85.4°E. IMD says it is very likely to cross between Bapatla and Visakhapatnam, close to Yanam, by the forenoon of 28 October."
   - label: "What is still a forecast"
-    text: "The severe and very severe stages, the crossing, and the winds of 115-125 kmph gusting to 140 are IMD's forecast. The next bulletin can change the numbers. The landfall line is no finer than the forenoon of 28 October."
-  - label: "What Bulletin No. 2 said on 25 October"
-    text: "On 25 October the system was a depression, and that bulletin did not name it. Those paragraphs are kept below as background. They are not the latest line."
+    text: "The crossing, the winds of 115-125 kmph gusting to 140 at that crossing, the rise in sea winds to 135-145 kmph by the afternoon of 27 October, and the 1.0-1.5 m storm surge are IMD's forecast. The next bulletin can change the numbers. This note does not report that the coast has been crossed."
+  - label: "What earlier bulletins said"
+    text: "Bulletin No. 8, on 26 October, said the deep depression had become Cyclone Arnab. Bulletin No. 2, on 25 October, described a depression and did not name it. Those paragraphs are kept below. They are not the latest line."
 not_confirmed:
   - "Any damage, or any death. This update does not report either."
-  - "A landfall town, or a clock time finer than the forenoon of 28 October. IMD's line is between Bapatla and Visakhapatnam, and the forecast may change."
-  - "That the severe stage, or the very severe stage, has already happened. Those are forecasts in Bulletin No. 8."
-  - "A figure past Bulletin No. 8. A check at about 10:52 am IST on 26 October found No. 8 listed as the latest."
+  - "That the coast has been crossed. IMD's line is a forecast: very likely to cross between Bapatla and Visakhapatnam, close to Yanam, by the forenoon of 28 October. The forecast may change."
+  - "A count of people moved out of coastal and low-lying areas. The Hindu reports the Chief Minister's order. This note does not add a number."
+  - "That sea winds have already reached 135-145 kmph, gusting to 160. That rise, by the afternoon of 27 October, is IMD's forecast. The 02:30 IST observation is 125-135 kmph, gusting to 150."
+  - "A figure past Bulletin No. 15. A check at about 8:45 am IST on 27 October found No. 15 listed as the latest. The bulletin said the next message would be at 08:30 IST, and No. 16 was not online at that check."
 ---
+
+## Update, 27 October
+
+This page was updated at 8:50 am IST on 27 October 2026, when the new carousel was posted. The series on this carousel is NP NOW. The stamp is VERIFIED, and it is marked as an update. As of IMD National Bulletin No. 15, numbered BOB/08/2026 and issued at 03:45 IST on 27 October, from the position at 02:30 IST: Cyclone Arnab is now a very severe cyclonic storm. IMD bulletins change the numbers often. The next bulletin can change them. Follow IMD, the Andhra Pradesh State Disaster Management Authority (APSDMA) and the Odisha State Disaster Management Authority (OSDMA).
+
+At 02:30 IST on 27 October the storm was in the west-central Bay of Bengal, near 15.9°N, 85.4°E. That is about 300 km southeast of Visakhapatnam and about 360 km east-southeast of Kakinada. In the previous six hours it moved west-northwest at 25 kmph. IMD's RSMC Tropical Cyclone Advisory No. 7 says the system had intensified into a very severe cyclonic storm by 1800 UTC on 26 October, which is 23:30 IST. A check at about 8:45 am IST on 27 October found Bulletin No. 15 listed as the latest. The bulletin itself said the next message would be at 08:30 IST. Bulletin No. 16 was not online at that check.
+
+IMD's forecast from Bulletin No. 15 is that the storm is likely to move west-northwest until the evening of 27 October, and then northwest. It is very likely to cross the Andhra Pradesh and Yanam coasts between Bapatla and Visakhapatnam, close to Yanam, as a very severe cyclonic storm, by the forenoon of 28 October. The wind line for that crossing is 115-125 kmph, gusting to 140 kmph. The crossing is a forecast. This note does not report that the coast has been crossed, and it does not set a clock time inside that forenoon.
+
+At sea at 02:30 IST, the bulletin puts the winds at 125-135 kmph, gusting to 150 kmph. IMD says those winds may rise to 135-145 kmph, gusting to 160 kmph, by the afternoon of 27 October. That rise is a forecast. IMD also says a storm surge of 1.0-1.5 m is possible near Kakinada and Yanam at landfall. That surge line is IMD's wording for the time of landfall, and it is a forecast. Fishermen are advised not to go to sea on 27, 28 and 29 October.
+
+Andhra Chief Minister N. Chandrababu Naidu has ordered that people be moved out of coastal and low-lying areas. The Hindu is the report named for that order. For 27 October, The Hindu reports a red alert for seven districts. The caption, and The Times of India, name Kakinada, Konaseema, East Godavari, West Godavari, Eluru and Yanam among the places under that alert. The caption lists Andhra Pradesh helplines 112 and 1070. The Hindu is also named for the helplines. This update does not give a count of people moved. It does not report damage or deaths.
+
+IMD's categories, as printed in the track legend with knots converted to kmph, are these. A cyclonic storm is 62-88 kmph. A severe cyclonic storm is 89-117 kmph. A very severe cyclonic storm is 118-166 kmph. The caption says a red alert means "take action".
+
+The new cover is an NP graphic using IMD images: an INSAT-3DS thermal infrared image from 02:30 to 02:57 IST on 27 October, and the observed and forecast track with the cone of uncertainty, based on 1800 UTC, which is 23:30 IST, on 26 October. Courtesy: IMD.
+
+Read together, the lines that stay inside Bulletin No. 15 are these. Arnab is now a very severe cyclonic storm, near 15.9°N, 85.4°E at 02:30 IST on 27 October, about 300 km southeast of Visakhapatnam and 360 km east-southeast of Kakinada, after moving west-northwest at 25 kmph. The forecast crossing is the Andhra Pradesh and Yanam coasts between Bapatla and Visakhapatnam, close to Yanam, as a very severe cyclonic storm, by the forenoon of 28 October, with winds of 115-125 kmph gusting to 140. Sea winds at 02:30 IST were 125-135 kmph, gusting to 150, and IMD says they may rise to 135-145 kmph, gusting to 160, by the afternoon. A storm surge of 1.0-1.5 m is possible near Kakinada and Yanam at landfall, in IMD's words. Fishermen are advised to stay out of the sea on 27-29 October. The Chief Minister's evacuation order and the red-alert places are reports, named above. This note does not report a crossing of the coast, and it does not report damage or deaths.
 
 ## Update, 26 October
 
-This page was updated at 12:32 pm IST on 26 October 2026, when the new carousel was posted. As of IMD National Bulletin No. 8, numbered BOB/08/2026 and issued at 09:30 IST on 26 October, and the IMD all-India bulletin at 08:47 IST the same morning: the deep depression became the cyclonic storm Arnab at 05:30 IST on 26 October. The caption gives the pronunciation as Ornab. Forecasts may change. Follow IMD, the Andhra Pradesh State Disaster Management Authority (APSDMA) and the Odisha State Disaster Management Authority (OSDMA).
+The paragraphs under this heading are the 26 October update, from Bulletin No. 8. Bulletin No. 15, above, is the later line.
+
+This page was updated at 12:32 pm IST on 26 October 2026, when that carousel was posted. As of IMD National Bulletin No. 8, numbered BOB/08/2026 and issued at 09:30 IST on 26 October, and the IMD all-India bulletin at 08:47 IST the same morning: the deep depression became the cyclonic storm Arnab at 05:30 IST on 26 October. The caption gives the pronunciation as Ornab. Forecasts may change. Follow IMD, the Andhra Pradesh State Disaster Management Authority (APSDMA) and the Odisha State Disaster Management Authority (OSDMA).
 
 At 05:30 IST the storm was near 15.4°N, 88.9°E. That is about 650 km east-southeast of Visakhapatnam, about 730 km east-southeast of Kakinada, and about 910 km east of Bapatla. IMD's forecast from that bulletin is a severe cyclonic storm by midnight on 26 October, a very severe cyclonic storm on 27 October, and a very likely crossing of the Andhra Pradesh and Yanam coasts between Bapatla and Visakhapatnam by the forenoon of 28 October. The wind line is 115-125 kmph, gusting to 140 kmph. The crossing is a forecast. This note does not name a town inside that stretch, and it does not set a clock time inside that forenoon. The caption says the next bulletin can change the numbers. A check at about 10:52 am IST found Bulletin No. 8 listed as the latest on mausam.imd.gov.in.
 
-The alert is a cyclone warning, a red message, for the Andhra Pradesh and south Odisha coasts. Fishermen are advised not to venture to sea. Andhra Chief Minister N. Chandrababu Naidu ordered round-the-clock vigilance. The Hindu is the report named for that order. Odisha Chief Minister Mohan Charan Majhi sent eight ministers to vulnerable districts. The Hindu and PTI are the reports named for that step. This update does not report damage or deaths. The new cover is an NP graphic using IMD images: an INSAT-3DR visible image from 07:14 IST on 26 October, and the observed and forecast track with the cone of uncertainty, based on 0000 UTC, which is 05:30 IST, on 26 October. Courtesy: IMD.
+The alert is a cyclone warning, a red message, for the Andhra Pradesh and south Odisha coasts. Fishermen are advised not to venture to sea. Andhra Chief Minister N. Chandrababu Naidu ordered round-the-clock vigilance. The Hindu is the report named for that order. Odisha Chief Minister Mohan Charan Majhi sent eight ministers to vulnerable districts. The Hindu and PTI are the reports named for that step. This update does not report damage or deaths. The cover on that update was an NP graphic using IMD images: an INSAT-3DR visible image from 07:14 IST on 26 October, and the observed and forecast track with the cone of uncertainty, based on 0000 UTC, which is 05:30 IST, on 26 October. Courtesy: IMD.
 
 ## Background: Bulletin No. 2, 25 October
 
-The paragraphs under this heading are the note as published on 25 October, from Bulletin No. 2. Bulletin No. 8, above, is the later line.
+The paragraphs under this heading are the note as published on 25 October, from Bulletin No. 2. Bulletin No. 15, at the top of this page, is the latest line. Bulletin No. 8 is the 26 October update.
 
 This note is verified. The series is NP EXPLAINS. The carousel was posted at 8:58 am IST on 25 October 2026. The stamp is VERIFIED. The cover is an NP graphic, and the data are credited to IMD. No IMD image is used. The line that sits with every figure below is this: as of IMD Bulletin No. 2, 02:00 IST on 25 October; forecasts may change.
 
